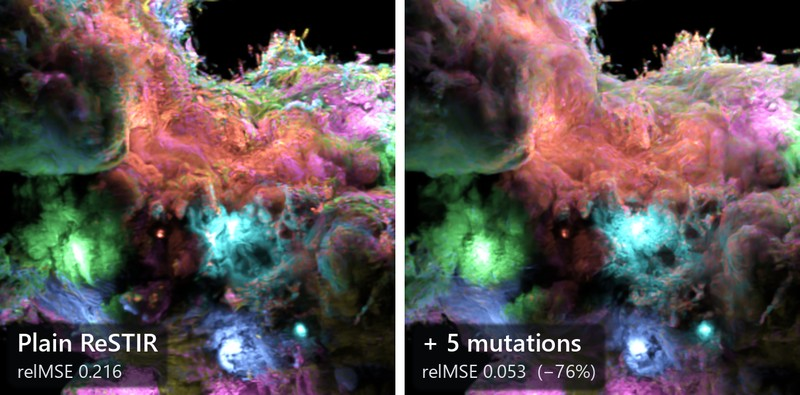
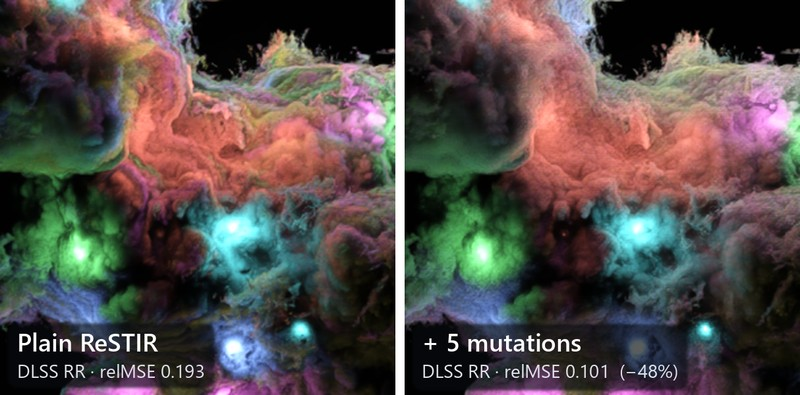
Decorrelating Volumetric ReSTIR: the cover through DLSS Ray Reconstruction (the same window of the 192-light swarm: plain ReSTIR 0.193, five mutations 0.101, reference), for the page, its phone version and the card; the caption notes that Ray Reconstruction renders the frame about a fifth darker tha

diff --git a/projects/denoising-volumetricrestir.html b/projects/denoising-volumetricrestir.html
@@ -205,13 +205,14 @@
                         srcset="../images/denoising-volumetricrestir/cover_phone.jpg" width="1214" height="750">
                     <img src="../images/denoising-volumetricrestir/cover.jpg" class="teaser-image" width="1828"
                         height="600"
-                        alt="Crops of a cloud lit by 192 coloured lights: plain Volumetric ReSTIR full of coloured streaks and blotches, and the same frame with five Metropolis–Hastings mutations, much closer to the smooth path-traced reference.">
+                        alt="Crops of a cloud lit by 192 coloured lights, through DLSS Ray Reconstruction: plain Volumetric ReSTIR full of coloured streaks and blotches, and the same frame with five Metropolis–Hastings mutations, much closer to the smooth path-traced reference.">
                 </picture>
                 <h2 class="subtitle has-text-centered">
-                    A cloud lit by 192 coloured lights, through the OptiX denoiser with a 200-frame history. Plain
+                    A cloud lit by 192 coloured lights, through DLSS Ray Reconstruction with a 200-frame history. Plain
                     Volumetric ReSTIR leaves coloured streaks and blotches that the denoiser keeps; five
                     Metropolis–Hastings mutations per pixel remove most of them. The numbers are the relative MSE in
-                    the medium against the path-traced reference.
+                    the medium against the path-traced reference; Ray Reconstruction renders this frame about a fifth
+                    darker than the reference with or without mutations, which keeps part of the error.
                 </h2>
             </div>
         </div>

diff --git a/index.html b/index.html
@@ -587,7 +587,7 @@
                     data-ord-ai="2">
                     <div class="card-img-wrap">
                         <img src="images/denoising-volumetricrestir/cover_card.jpg"
-                            alt="A cloud lit by 192 coloured lights: plain Volumetric ReSTIR full of coloured blotches beside the same frame with five mutations" class="card-img"
+                            alt="A cloud lit by 192 coloured lights, through DLSS Ray Reconstruction: plain Volumetric ReSTIR full of coloured blotches beside the same frame with five mutations" class="card-img"
                             onerror="this.style.display='none'; this.nextElementSibling.style.display='block'">
                         <div class="placeholder-pattern" style="display:none"></div>
                     </div>
